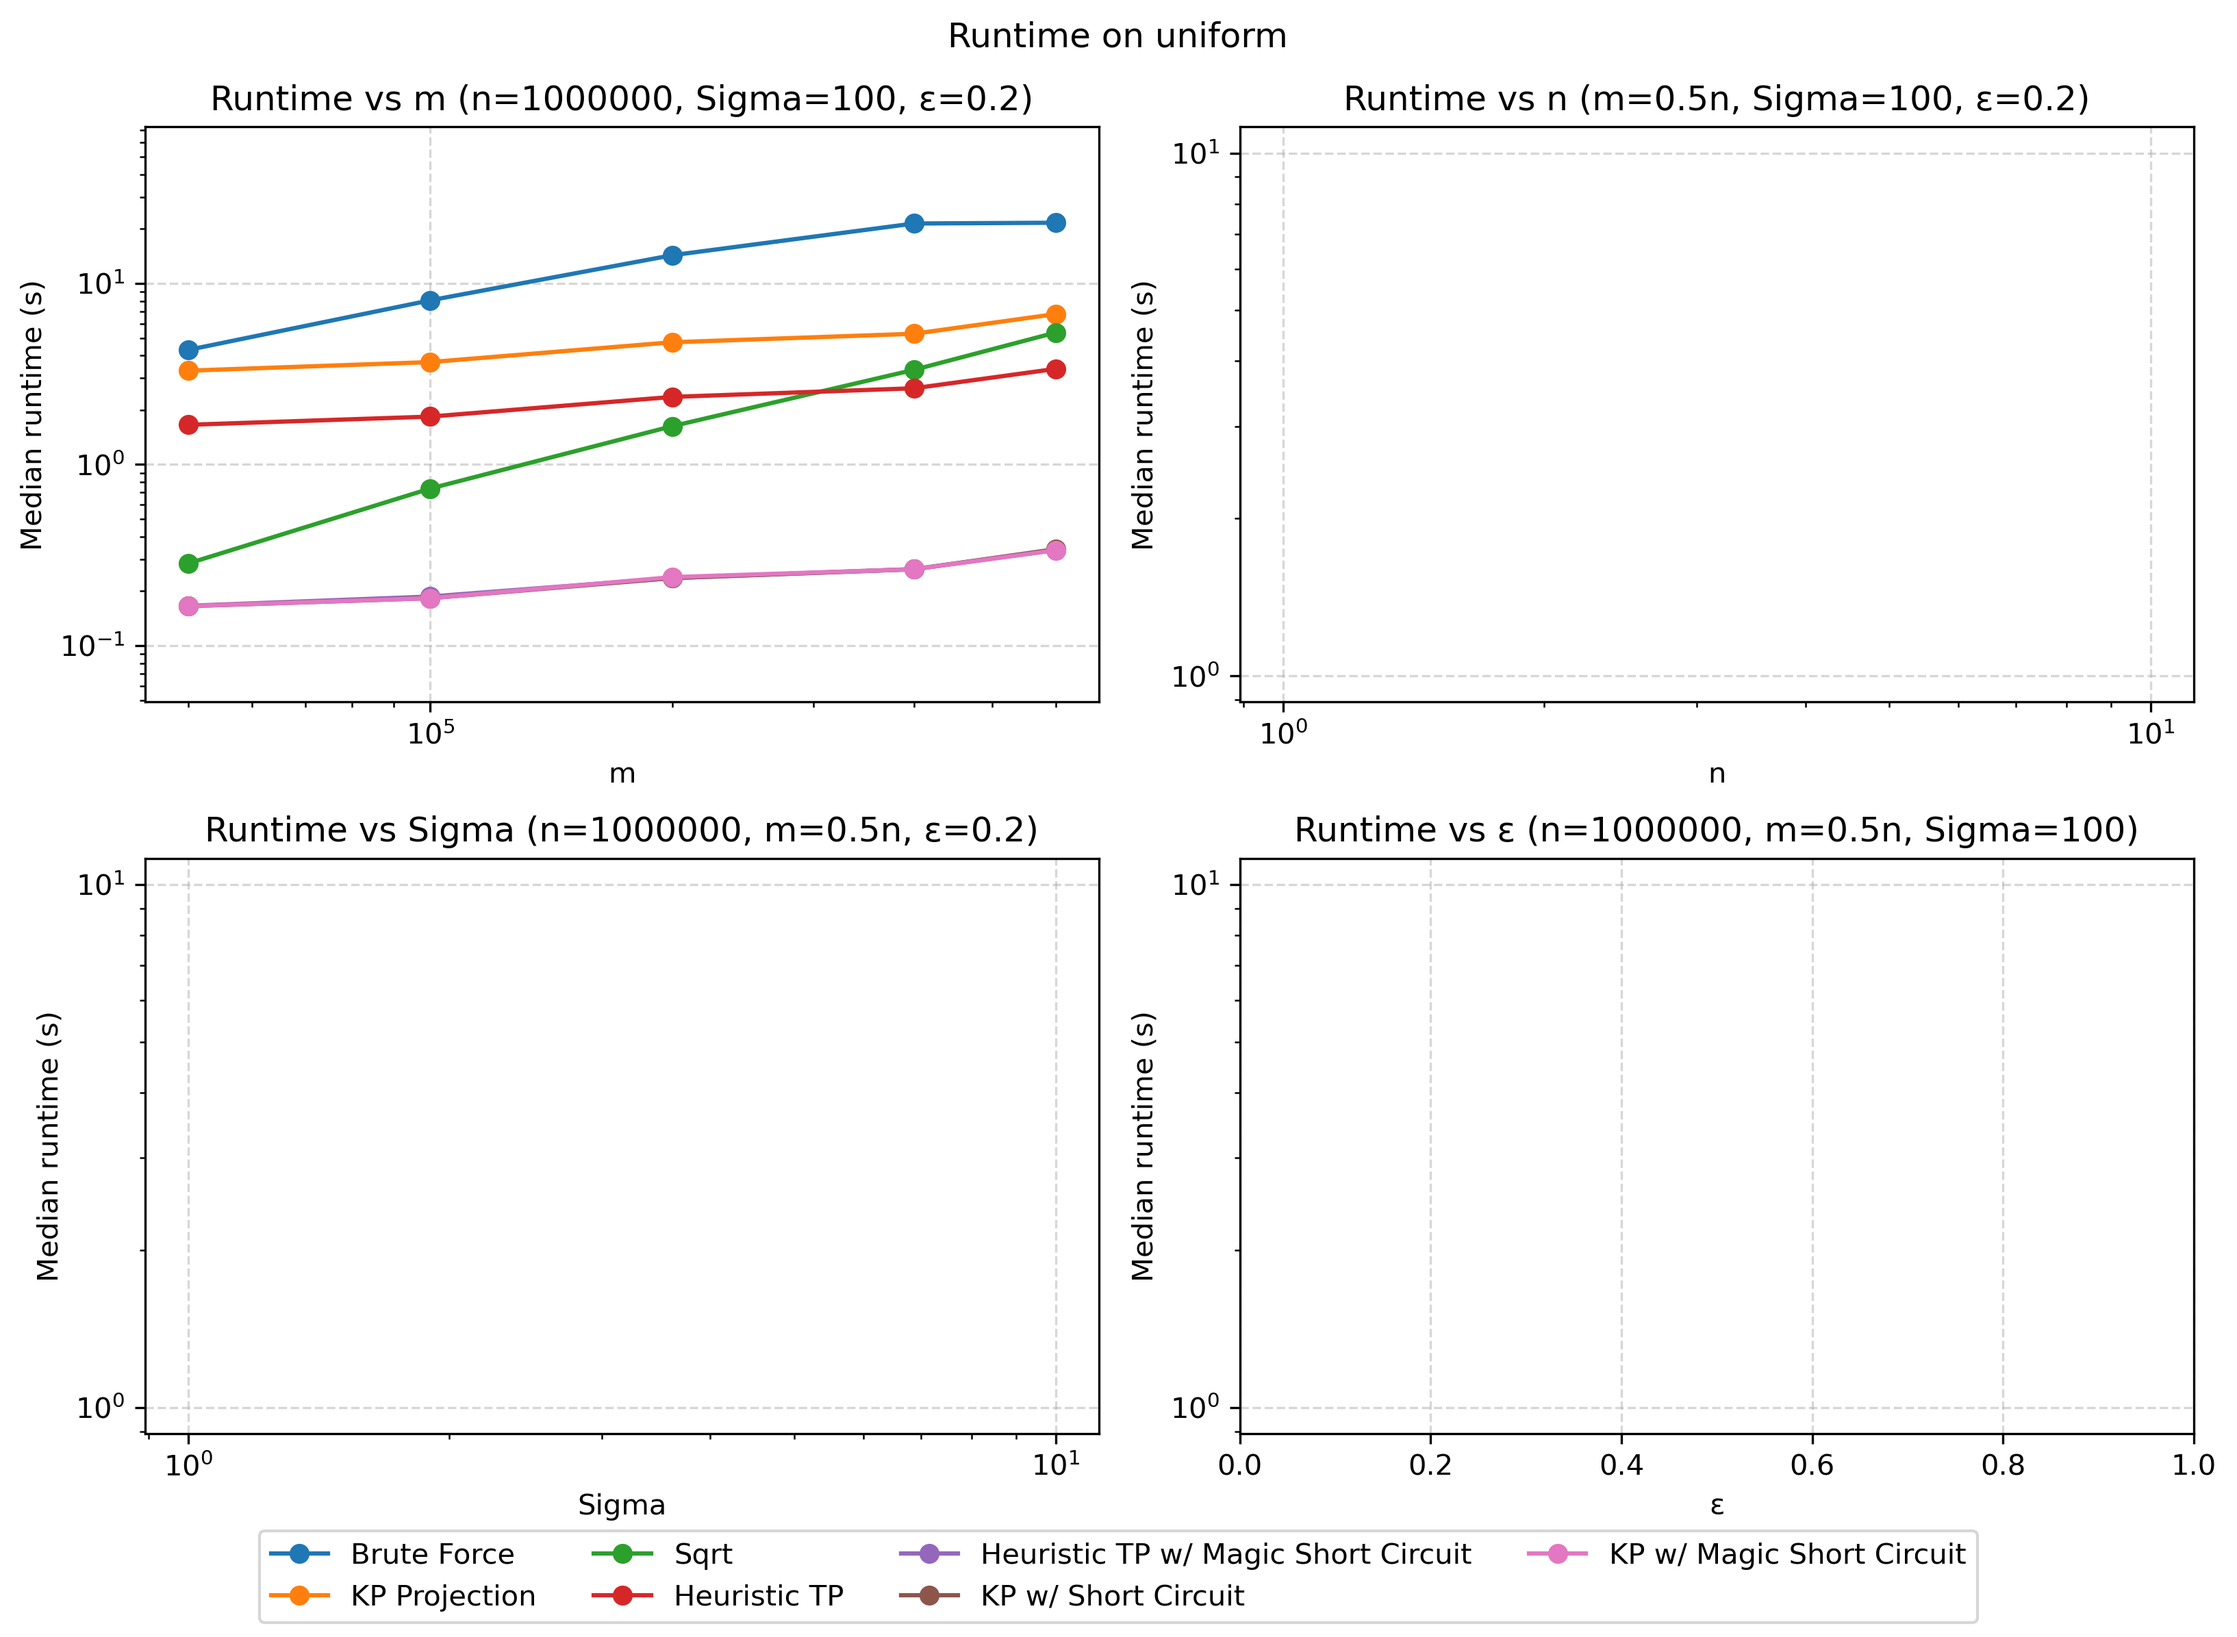
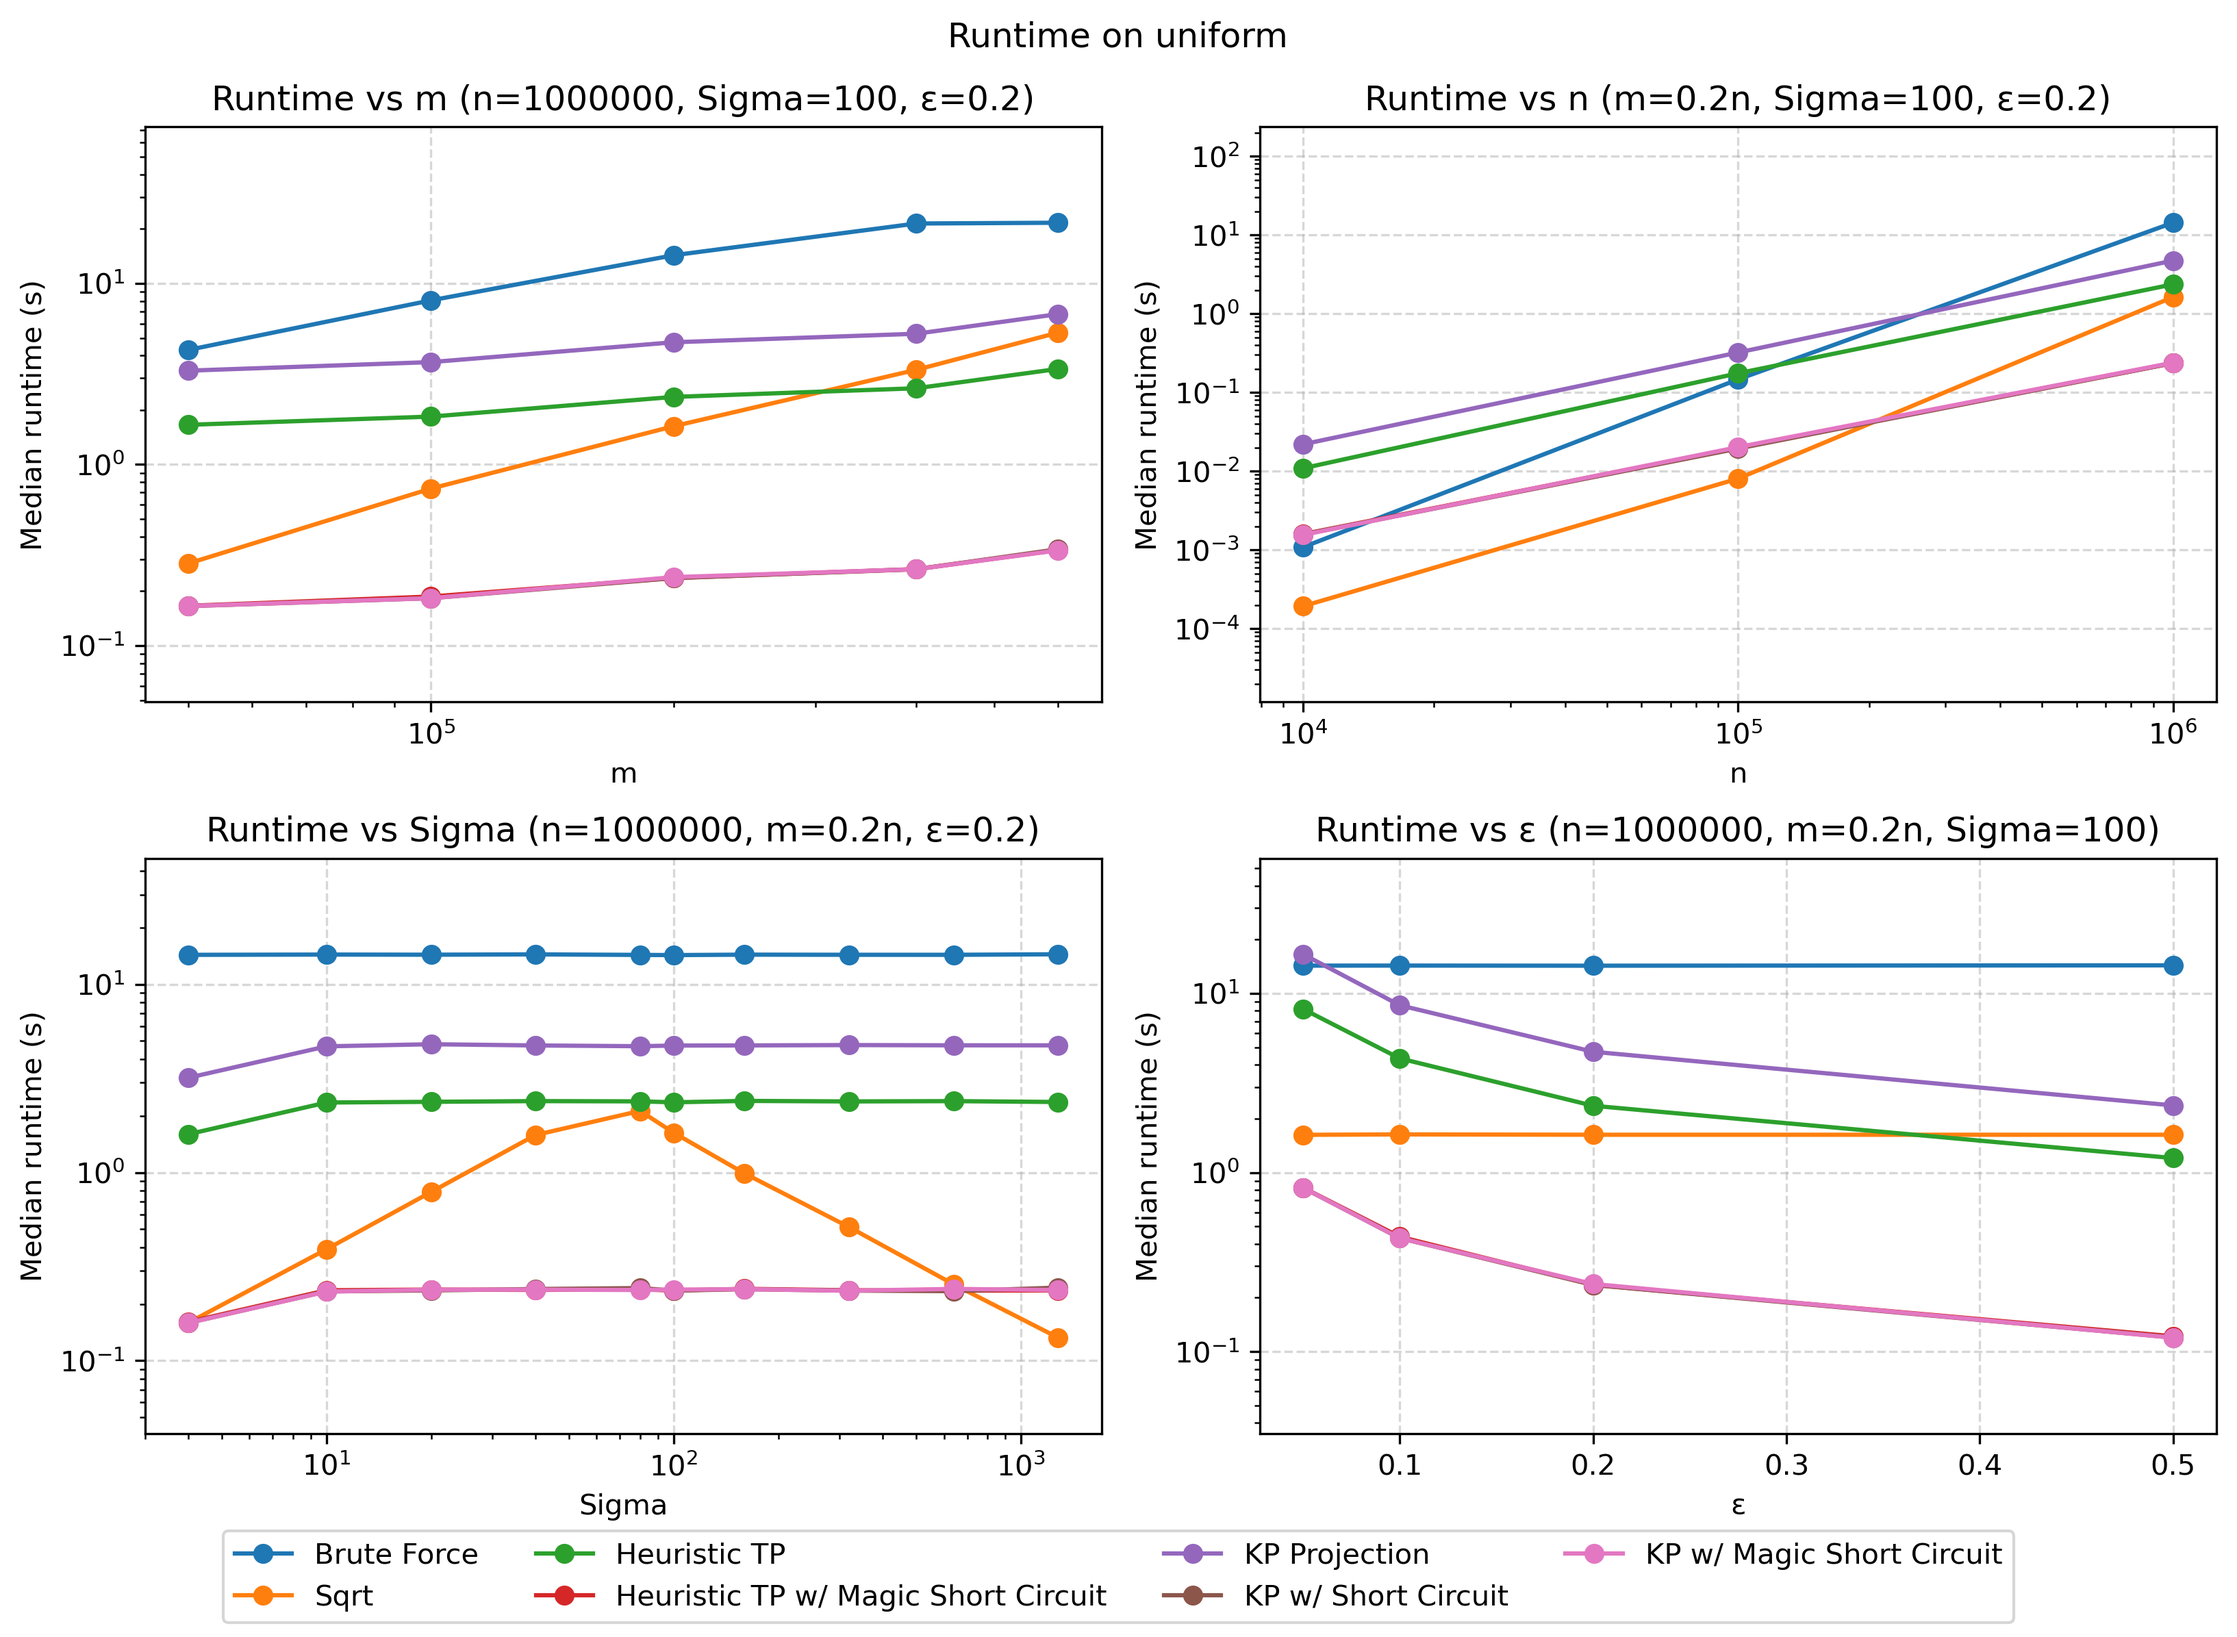
ran more tests

diff --git a/src/plotting_new.py b/src/plotting_new.py
@@ -5,7 +5,7 @@ import matplotlib.pyplot as plt
 # -------------------------------------------------
 # Load data and define short algorithm names
 # -------------------------------------------------
-GEN_NAME = "m_blocks_perturbed"
+GEN_NAME = "fake_binary_0.8"
 df = pd.read_csv("../results/" + GEN_NAME + ".csv").copy()
 
 name_map = {
@@ -101,6 +101,8 @@ sub_eps = df[(df["n"] == baseline_n) &
 RIGHT_MARGIN = 0.8
 BOTTOM_MARGIN = 0.12
 LEGEND_LOC = "lower center"
+TIME = "avg_time"
+RATIO = "avg_ratio"
 
 # =====================================================
 # FIGURE 1 — Approx algos: AVG TIME panels
@@ -111,7 +113,7 @@ fig1, axes1 = plt.subplots(2, 2, figsize=(11, 8))
 plot_group_on_ax(
     axes1[0, 0], sub_m, all_algos,
     x_col="m",
-    metric="median_time",
+    metric=TIME,
     x_label="m",
     title=f"Runtime vs m (n={baseline_n}, Sigma={baseline_sigma}, ε={baseline_eps})",
     log_x=True, log_y=True,
@@ -122,7 +124,7 @@ plot_group_on_ax(
 plot_group_on_ax(
     axes1[0, 1], sub_n, all_algos,
     x_col="n",
-    metric="median_time",
+    metric=TIME,
     x_label="n",
     title=f"Runtime vs n (m={baseline_m_frac}n, Sigma={baseline_sigma}, ε={baseline_eps})",
     log_x=True, log_y=True,
@@ -131,7 +133,7 @@ plot_group_on_ax(
 plot_group_on_ax(
     axes1[1, 0], sub_sigma, all_algos,
     x_col="sigma",
-    metric="median_time",
+    metric=TIME,
     x_label="Sigma",
     title=f"Runtime vs Sigma (n={baseline_n}, m={baseline_m_frac}n, ε={baseline_eps})",
     log_x=True, log_y=True,
@@ -140,7 +142,7 @@ plot_group_on_ax(
 plot_group_on_ax(
     axes1[1, 1], sub_eps, all_algos,
     x_col="eps",
-    metric="median_time",
+    metric=TIME,
     x_label="ε",
     title=f"Runtime vs ε (n={baseline_n}, m={baseline_m_frac}n, Sigma={baseline_sigma})",
     log_x=False, log_y=True,

diff --git a/src/testing_framework.cpp b/src/testing_framework.cpp
@@ -154,8 +154,9 @@ vector<TestCase> gen_cases(int n, int m, int sigma, double eps, int num_cases, i
                 break;
             }
             case 6: {
-                snprintf(filename, 100, "fake_binary_%d_%d_%d_%d", n, m, sigma, seed);
-                tie(cases[i].A, cases[i].B) = generate_fake_binary<uint32_t>(n, m, sigma, seed, 0.8);
+                double big_prob = 0.6;
+                snprintf(filename, 100, "fake_binary_%d_%d_%d_%d_%.3f", n, m, sigma, seed, big_prob);
+                tie(cases[i].A, cases[i].B) = generate_fake_binary<uint32_t>(n, m, sigma, seed, big_prob);
                 break;
             }
             default:

diff --git a/src/string_gen.h b/src/string_gen.h
@@ -123,7 +123,7 @@ pair<vector<T>, vector<T>> generate_geometric(int n, int m, int sigma, int seed,
 
     auto gen_symbol_inc = [&]() -> T {
         int cur_symbol = 0;
-        while (cur_symbol < sigma) {
+        while (cur_symbol < sigma - 1) {
             double u = uni01(rng);
             if (u < prob || sigma == 1) {
                 return static_cast<T>(cur_symbol);
